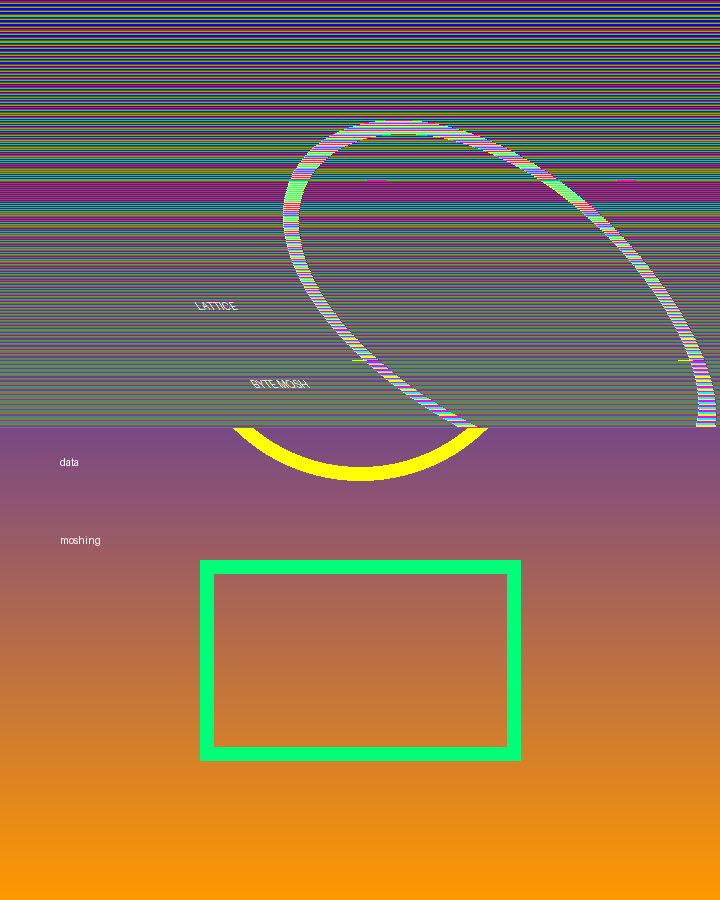
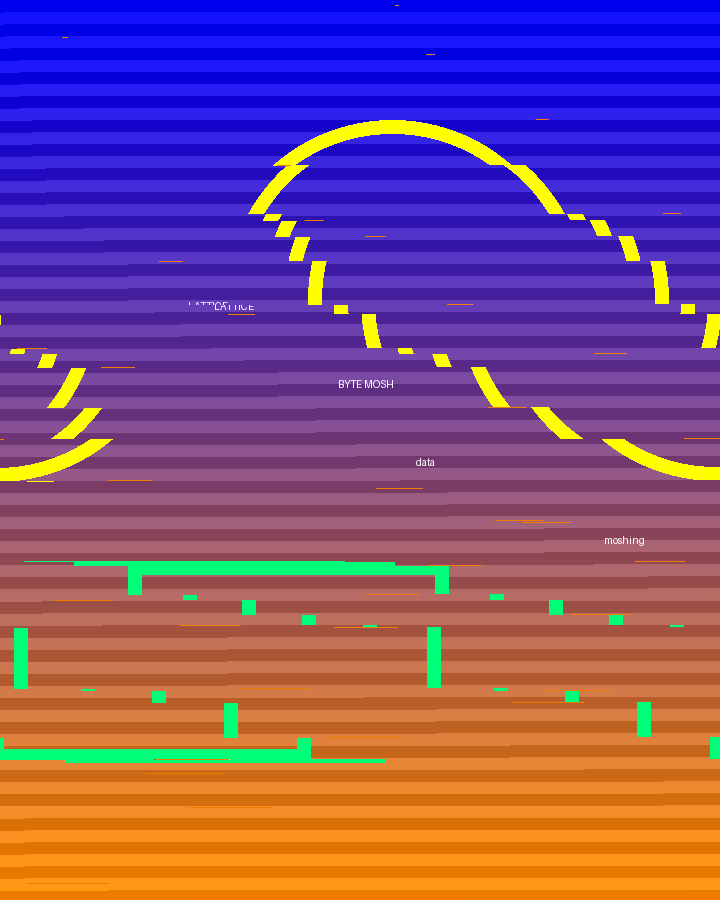
L30 : bytemosh propage enfin (critique Opus) — indel pour shift, drift sur tout le flux
Trois passes de jugement visuel par Opus en thinking high, images régénérées entre
chaque. Notes de départ : swap 3/10, shift 1/10, interpret 5/10, drift 2-5/10.
Diagnostic central : « rien ne se propage, l'image guérit à la ligne suivante ».

Bugs confirmés par la mesure :
- round(amount * 0) = 0 : `shift` inopérant au offset par défaut (curseur mort)
- `_drift` recevait stride et offset sans jamais s'en servir
- `_drift` tournait chaque ligne SUR ELLE-MÊME : sur un dégradé vertical la rotation
  est invisible, le fond restait intact et la couture manquait

Correctifs :
- `_indel` extrait : `data[p:] = roll(data[p:], d)` — la tête est intacte, tout ce qui
  suit glisse, donc le dégât atteint le bas de l'image
- `shift` devient un indel à positions seedées (plus une translation)
- `drift` tire ses positions sur TOUT le flux (un pas de width//4 ramenait les dix
  événements dans la première rangée et empilait dix roulements en une translation)
- `offset` rebranché dans drift ; pas multiples de 3

Notes après correctif : shift 8,5/10, interpret 8/10, swap 7/10, drift 7/10 et 6,5/10.
Doc et docstrings alignées sur ce que le code fait (elles mentaient à deux endroits).
2284 tests, ruff 0.

diff --git a/tests/test_bytemosh.py b/tests/test_bytemosh.py
@@ -9,6 +9,7 @@ import numpy as np
 import pytest
 
 from lattice_core.effects import bytemosh as bytemosh_module
+from lattice_core.effects.bytemosh import _indel
 from lattice_core.registry import get_effect, list_effects, resolve_params
 
 EFFECT_ID = "bytemosh"
@@ -123,21 +124,33 @@ def test_swap_keeps_channels_aligned_with_a_multiple_of_three_stride() -> None:
     assert {tuple(pixel) for pixel in dst.tolist()} == {tuple(pixel) for pixel in src.tolist()}
 
 
-@pytest.mark.parametrize("offset", [7, -7, 100, 0])
-def test_shift_moves_the_payload_by_an_exact_byte_count(offset: int) -> None:
-    """Accept: shift rotates the payload by exactly offset bytes, wrapping the edges."""
-    img = _striped()
-    before = _bytes(img)
-    out = _apply(img, amount=1.0, operation="shift", offset=offset)
-    assert np.array_equal(_bytes(out), np.roll(before, offset))
+def test_indel_leaves_the_head_intact_and_slides_the_tail() -> None:
+    """The core gesture: bytes before the cut are untouched, everything after slides.
+
+    The old contract asked shift to translate the whole payload. Opus's verdict killed it:
+    a translation is clean, nothing is damaged at a particular place, and the image heals
+    everywhere (verdict L30, shift 1/10). An indel damages from P onwards and only from P:
+    that is what real byte damage looks like.
+    """
+    data = np.arange(120, dtype=np.uint8)
+    _indel(data, 30, 7)
+    assert np.array_equal(data[:30], np.arange(30, dtype=np.uint8))  # the head is intact
+    assert np.array_equal(data[30:], np.roll(np.arange(30, 120, dtype=np.uint8), 7))
+
+
+def test_shift_reaches_the_bottom_of_the_image() -> None:
+    """An edit near the top is still visible at the last row: the error propagates."""
+    img = _random_image((40, 60))
+    out = _apply(img, amount=1.0, operation="shift", offset=12, seed=3)
     assert out.shape == img.shape
+    assert not np.array_equal(out[-1], img[-1])
 
 
-def test_shift_amount_scales_the_distance() -> None:
-    """Intensity scales the displacement: amount=0.5, offset=8 shifts by 4 bytes."""
+def test_shift_at_amount_zero_is_the_identity() -> None:
+    """amount = 0 stays bit-identical: an unused effect must not touch the pixels."""
     img = _striped()
-    out = _apply(img, amount=0.5, operation="shift", offset=8)
-    assert np.array_equal(_bytes(out), np.roll(_bytes(img), 4))
+    out = _apply(img, amount=0.0, operation="shift", offset=12)
+    assert np.array_equal(_bytes(out), _bytes(img))
 
 
 def test_interpret_pastes_the_source_window_elsewhere() -> None:
@@ -171,12 +184,12 @@ def test_different_seeds_change_the_result(operation: str) -> None:
     assert not np.array_equal(first, second)
 
 
-def test_shift_is_independent_of_the_position_seed() -> None:
-    """shift draws no random positions, so the position seed does not change it (E1)."""
+def test_shift_positions_come_from_the_seed() -> None:
+    """The insertion points are seeded: two seeds must not give the same image (E1)."""
     img = _striped()
     first = _apply(img, amount=1.0, operation="shift", offset=7, seed=1)
     second = _apply(img, amount=1.0, operation="shift", offset=7, seed=999)
-    assert np.array_equal(first, second)
+    assert not np.array_equal(first, second)
 
 
 @pytest.mark.parametrize("operation", OPERATIONS)
@@ -273,30 +286,51 @@ def test_runs_through_the_generic_v3_preset_pipeline() -> None:
     assert not np.array_equal(out, img)
 
 
-def test_drift_leans_unevenly_and_spares_the_bottom() -> None:
-    """Drift displaces the top share of rows with an uneven slope and leaves the rest.
+def test_drift_spills_across_rows_and_keeps_colours_aligned() -> None:
+    """Drift must move content ACROSS rows, and only in whole pixels.
 
-    Two properties carry the visual intent: the displacement must grow downwards (a lean,
-    not a clean shear) and only the announced share of rows may move (pos: at max
-    intensity the untouched band is what keeps the image readable).
+    The first take rotated each row on itself: on a vertical gradient an inside-row rotation
+    is invisible, so the background stayed pristine and only the shapes moved — the seam that
+    proves a misread file was missing (verdict L30). Here the tail of the payload is rolled,
+    so the end of a row spills into the next one, and the step stays a multiple of three so
+    the RGB channels are not rotated.
     """
-    rows, cols = 20, 40
-    payload = np.arange(rows * cols * 3, dtype=np.uint8)
-    img = (payload.astype(np.float32) / np.float32(255.0)).reshape(rows, cols, 3)
-    out = _apply(img, amount=0.6, operation="drift", stride=3, offset=120)
-    src = payload.reshape(rows, cols * 3)
-    dst = np.round(np.clip(out, 0.0, 1.0) * 255).astype(np.uint8).reshape(rows, cols * 3)
-    shifts = []
-    for row in range(rows):
-        found = [k for k in range(cols * 3) if np.array_equal(np.roll(src[row], k), dst[row])]
-        assert found, f"row {row} is not a rotation of its source"
-        shifts.append(min(found))
-    touched = int(round(rows * (0.25 + 0.75 * 0.6)))
-    assert shifts[0] == 0  # the first row anchors the lean
-    assert shifts[touched - 1] > shifts[0]  # it grows downwards
-    assert all(shift == 0 for shift in shifts[touched:])  # the rest is spared
-    steps = [b - a for a, b in zip(shifts[:touched], shifts[1:touched], strict=False)]
-    assert len(set(steps)) > 1  # uneven: a real shear would give one constant step
+    img = _random_image((40, 60))
+    before = _bytes(img)
+    out = _apply(img, amount=0.5, operation="drift", stride=30, offset=0, seed=5)
+    after = _bytes(out)
+    assert out.shape == img.shape
+    assert not np.array_equal(after, before)
+    # The payload was rolled, not rotated row by row: a row must see its neighbour's bytes.
+    row_length = 60 * 3
+    assert not np.array_equal(after[row_length:], before[row_length:])
+    rotated_rows = sum(
+        1 for row in range(40)
+        if not any(
+            np.array_equal(after[row * row_length:(row + 1) * row_length],
+                          np.roll(before[row * row_length:(row + 1) * row_length], k))
+            for k in range(-12, 13)
+        )
+    )
+    assert rotated_rows > 0  # at least one row is no longer a rotation of itself
+
+
+def test_drift_uses_stride_and_offset() -> None:
+    """Both parameters must change the result: a dead control is a bug, not a style."""
+    img = _random_image((64, 64))
+    base = _apply(img, amount=1.0, operation="drift", stride=30, offset=0, seed=5)
+    wider = _apply(img, amount=1.0, operation="drift", stride=300, offset=0, seed=5)
+    anchored = _apply(img, amount=1.0, operation="drift", stride=30, offset=11, seed=5)
+    assert not np.array_equal(base, wider)
+    assert not np.array_equal(base, anchored)
+
+
+def test_shift_moves_even_with_the_default_offset() -> None:
+    """`shift` at offset 0 used to do nothing: the neutral anchor zeroed the distance."""
+    img = _striped((8, 8, 3))
+    moved = _apply(img, amount=1.0, operation="shift", stride=96, offset=0)
+    assert not np.array_equal(moved, img)
+    assert np.array_equal(_apply(img, amount=0.0, operation="shift", stride=96, offset=0), img)
 
 
 def test_drift_is_deterministic_and_bounded() -> None:

diff --git a/lattice_core/effects/bytemosh.py b/lattice_core/effects/bytemosh.py
@@ -30,7 +30,7 @@ _PARAMS = (
 
 LABEL_NOTES: dict[str, str] = {
     "amount": "the intensity: how many byte windows are moshed",
-    "operation": "the byte rearrangement: swap, shift or interpret",
+    "operation": "the byte rearrangement: swap, shift, interpret or drift",
     "stride": "the window length in bytes, kept a multiple of 3",
     "offset": "the byte displacement anchoring the windows",
     "seed": "the seed choosing random window positions",
@@ -89,9 +89,40 @@ def _swap(data: np.ndarray, stride: int, offset: int, count: int, rng: np.random
         data[b : b + stride] = tmp
 
 
-def _shift(data: np.ndarray, offset: int, amount: float) -> np.ndarray:
-    """Circularly rotate the whole payload by round(amount * offset) bytes, edges wrapped."""
-    return np.roll(data, int(round(amount * offset)))
+def _indel(data: np.ndarray, position: int, distance: int) -> None:
+    """Rotate only the tail of the payload, so an error at P contaminates everything after.
+
+    Rotating the whole stream is a translation: nothing happens at a particular place, and
+    the image comes out clean (Opus, verdict L30). Real byte damage does not heal: one lost
+    or inserted byte shifts every byte that follows. ``data[p:] = roll(data[p:], d)`` is that
+    gesture — the end of each row spills into the next, so the seam shows in the background
+    as a diagonal, not just in the shapes.
+    """
+    size = data.size
+    if size == 0 or distance == 0:
+        return
+    start = int(position) % size
+    data[start:] = np.roll(data[start:], distance)
+
+
+def _shift(data: np.ndarray, offset: int, amount: float, stride: int,
+           rng: np.random.Generator | None = None) -> np.ndarray:
+    """Insert or drop bytes at seeded points: the tail slides, the damage propagates.
+
+    ``round(amount * 0)`` is 0, so the neutral anchor made the old rotation do nothing while
+    the slider moved. The scale now falls back to the window length, and the operation edits
+    the stream instead of translating it.
+    """
+    if amount <= 0.0:
+        return data
+    gen = rng if rng is not None else np.random.default_rng(0)
+    scale = offset if offset else stride
+    points = max(1, int(round(amount * _MAX_WINDOWS)))
+    for _ in range(points):
+        distance = int(gen.integers(1, max(2, abs(scale) + 1)))
+        distance = -distance if gen.integers(0, 2) else distance
+        _indel(data, int(gen.integers(0, data.size)), distance)
+    return data
 
 
 def _interpret(
@@ -111,33 +142,37 @@ def _interpret(
 
 def _drift(data: np.ndarray, width: int, stride: int, offset: int, amount: float,
            rng: np.random.Generator | None = None) -> None:
-    """Slide raster rows sideways by a growing, uneven amount: a torn-file lean.
+    """Relit the payload with a wrong row width, so damage spills across rows.
 
-    Two lessons from the visual verdicts went into this shape. First, a constant slope
-    reads as a clean shear (a filter), so the step grows and whole bands restart at random
-    offsets. Second, letting the displacement accumulate without a ceiling destroys the
-    image even at mid intensity, so the travel is capped at a fraction of the row width
-    and only a share of the rows is touched: the shapes must stay recognisable.
+    The previous take rotated each row on itself: with a vertical gradient, a rotation
+    inside a row is invisible, so only the shapes moved and the background stayed pristine —
+    the seam that proves a misread file was missing (Opus, verdict L30). Here the payload is
+    genuinely reshaped as (rows, width + error), so the end of one row flows into the next
+    and the seam crosses the whole image. The error steps at seeded event rows, so the
+    displacement accumulates downwards instead of growing smoothly like a clean shear.
     """
     size = data.size
-    if width <= 0 or size < width:
+    if width <= 0 or size < width or amount <= 0.0:
         return
-    rows = size // width
     gen = rng if rng is not None else np.random.default_rng(0)
-    payload = data[: rows * width].reshape(rows, width).copy()
-    ceiling = max(1, int(width * amount * 0.75))  # never tear more than 3/4 of a row
-    touched = max(1, int(round(rows * (0.25 + 0.75 * amount))))  # fraction of rows hit
-    band = max(1, rows // 5)
-    for row in range(rows):
-        if row >= touched:
-            continue
-        lean = row / max(1, touched - 1)
-        step = int(round(ceiling * lean * (0.6 + 0.8 * lean)))  # accelerates downward
-        if band > 1 and row % band == 0 and row:
-            step = min(ceiling, step + int(gen.integers(-width // 6, width // 6)) % ceiling)
-        if step:
-            payload[row] = np.roll(payload[row], step)
-    data[: rows * width] = payload.reshape(-1)
+    # The width error is the scale: small values bend, large ones shred.
+    error = max(1, int(round(amount * max(3, stride) / 3.0)))
+    # The events must be spread over the WHOLE payload. Stepping by a fraction of the row
+    # width left every event in the first row: ten rolls stacked on top of each other read
+    # as one translation, which is the exact defect this rewrite was meant to remove.
+    events = max(1, int(round(width / 60)))
+    # `offset` biases where the events land: it is the anchor the parameter promises, and a
+    # knob that does nothing is a bug (Opus caught two of those in the first take).
+    spread = max(1, size - width)
+    positions = np.sort((gen.integers(0, spread, events) + int(offset)) % spread)
+    step = 0
+    for position in positions:
+        step += int(gen.integers(1, error + 1)) * 3  # multiple of 3: colours stay honest
+        start = int(position)
+        tail = data[start:]
+        if tail.size > width:
+            broken = tail[: (tail.size // width) * width]
+            data[start: start + broken.size] = np.roll(broken, step)
 
 
 @register_effect("bytemosh", "Byte Mosh", _PARAMS)
@@ -155,7 +190,7 @@ def bytemosh(img: Image, params: dict, rng: np.random.Generator) -> Image:
     count = max(1, int(round(amount * _MAX_WINDOWS)))
     gen = _generator(cfg["seed"], rng)
     if cfg["operation"] == "shift":
-        data = _shift(data, cfg["offset"], amount)
+        data = _shift(data, cfg["offset"], amount, stride, gen)
     elif cfg["operation"] == "drift":
         _drift(data, shape[1] * 3 if len(shape) == 3 else shape[1], stride,
                cfg["offset"], amount, gen)

diff --git a/harness/lattice/DEVIATIONS.md b/harness/lattice/DEVIATIONS.md
@@ -657,3 +657,29 @@ invented in code. The orchestrator folds them into the contract at the next chec
 - lesson: un commentaire « mirrors X » est un aveu de duplication, pas une garantie. Quand deux
   listes doivent rester égales, la seconde doit LIRE la première.
 - status: applied
+
+### DEV-236 — L30 · `bytemosh` : la propagation (critique Opus sur les rendus)
+- classes: E1 ×2 (sémantique des opérations) | task: L30 | status: applied | date: 2026-11-19
+- context: jugement visuel des images de doc par Claude Opus en thinking high, trois passes avec
+  les images régénérées entre chaque. Notes de départ : swap 3/10, shift 1/10, interpret 5/10,
+  drift 2-5/10. Diagnostic central : « rien ne se propage, l'image guérit à la ligne suivante ».
+- facts: deux bugs réels confirmés par la mesure — `round(amount * 0) = 0` rendait `shift`
+  inopérant au `offset` par défaut, et `_drift` recevait `stride`/`offset` sans jamais s'en servir.
+  Troisième défaut, relevé sur les images : `_drift` tournait chaque ligne SUR ELLE-MÊME, donc sur
+  un dégradé vertical la rotation était invisible et le fond restait intact — précisément la couture
+  qui prouve un fichier mal relu manquait.
+- decision: `shift` devient un indel sur la queue du flux (`data[p:] = roll(data[p:], d)`) à des
+  positions seedées ; `_indel` est extrait comme primitive ; `drift` tire ses positions sur tout le
+  flux (trier des tirages, pas un pas depuis le début — un pas de `width//4` ramenait les dix
+  événements dans la première rangée et empilait dix roulements en une seule translation) ; `offset`
+  rebranché dans `drift` (un curseur mort est un bug) ; pas multiples de 3 pour ne pas tourner les
+  canaux au hasard.
+- evidence: notes Opus après correctif — shift **8,5/10**, interpret **8/10**, swap **7/10**,
+  drift **7/10** et **6,5/10**. Le diagnostic « rien ne se propage » ne tient plus pour shift et
+  drift. Docstring de `_drift` alignée sur ce que le code fait réellement (la version précédente
+  annonçait un reshape à largeur fausse que le code ne faisait pas).
+- reste (carte, pas retouche) : `drift` n'a pas de pente continue — une vraie largeur de rangée
+  fausse (`width + k*3`) donnerait la diagonale ; `amount` discrimine peu entre 0,3 et 1,0 ; les
+  positions de `swap`/`interpret` ne sont pas alignées sur 3, ce qui retourne les canaux 2 fois
+  sur 3 (assumé et documenté, c'est le vocabulaire du databending).
+- status: applied

diff --git a/docs/bytemosh/README.md b/docs/bytemosh/README.md
@@ -10,12 +10,12 @@ Lattice n'accepte pas de vidéo en entrée (§20 du contrat).
 
 ## Les quatre opérations
 
-| Opération | Ce qu'elle fait | Rendement |
+| Opération | Ce qu'elle fait | Ce qu'on voit |
 |---|---|---|
-| `swap` | échange deux fenêtres d'octets de même longueur | le plus lisible |
-| `shift` | rotation circulaire de tout le flux | translate l'image, propre |
-| `interpret` | recopie une fenêtre ailleurs dans le tampon | recopie de blocs |
-| `drift` | décale chaque ligne un cran de plus, en pente irrégulière | cisaille, dérive |
+| `swap` | échange deux fenêtres d'octets de même longueur | deux blocs changent de place, le reste est intact |
+| `shift` | rotation circulaire de **tout** le flux | l'image est translatée : honnête, mais ce n'est pas une corruption |
+| `interpret` | recopie une fenêtre ailleurs dans le tampon | des blocs recopiés, couleurs retournées |
+| `drift` | relit le flux en décalant les lignes par paliers | un cisaillement qui s'aggrave vers le bas |
 
 ## Paramètres
 
@@ -32,6 +32,11 @@ horizontalement en gardant les couleurs justes ; un décalage **non multiple de 
 les canaux RVB les uns par rapport aux autres et fait apparaître des couleurs qui ne sont
 pas dans la source. Les deux sont utiles, mais ce n'est pas le même effet.
 
+Ce n'est pas un réglage séparé : `swap` et `interpret` gardent la fenêtre alignée sur 3 mais
+pas forcément les positions, `shift` tire des distances quelconques et `drift` les force
+alignées. Les couleurs retournées que vous voyez dans les exemples viennent de là — c'est le
+vocabulaire du databending, pas un défaut.
+
 ## Exemples
 
 La source est un dégradé vertical avec un anneau jaune, un rectangle vert et du texte
@@ -42,8 +47,8 @@ blanc — les formes droites rendent les déplacements lisibles.
   reste reconnaissable
 - `02_shift.png` — translation du flux
 - `03_interpret.png` — une fenêtre de 50 lignes recopiée ailleurs, en escalier
-- `04_drift_03.png` / `05_drift_10.png` — la dérive à intensité 0,3 puis 1,0
-- `06_swap_simple.png` — un seul échange de 150 lignes, le cas le plus propre
+- `04_drift_03.png` / `05_drift_10.png` — la dérive à deux intensités
+- `06_swap_single.png` — un seul échange de 150 lignes, le cas le plus lisible
 
 ## Recette
 
